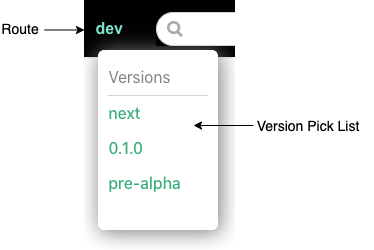
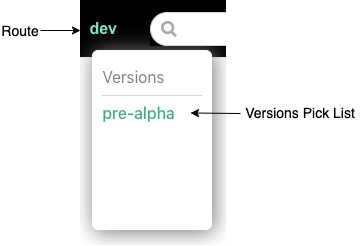
Issue 41, remove next from versions
https://github.com/api3dao/api3-docs/issues/41

diff --git a/docs/.vuepress/components/VersionsModal.vue b/docs/.vuepress/components/VersionsModal.vue
@@ -17,7 +17,7 @@ Parameters from parent
             <div class="modal-body">
                 <div style="border-bottom:1px solid lightgrey;">Versions</div>
                   <div v-for="(vrs, index) in versions" :key="index" v-on:click="onClickOutside(vrs.url, $event)">
-                    <router-link  :to="vrs.url" v-if="vrs.name!='next' || (vrs.name==='next' && env==='development')">
+                    <router-link  :to="vrs.url">
                       <span class="label">{{vrs.name}}</span>
                     </router-link>
                   </div>

diff --git a/docs/.vuepress/config.js b/docs/.vuepress/config.js
@@ -1,7 +1,9 @@
 module.exports = {
   env: process.env.NODE_ENV,
+  /**
+   * List all base routes that are to become versions here.
+   */
   versions:[
-    {name:'next', url:'/next/'},
     {name:'pre-alpha', url:'/pre-alpha/'},
   ],
   head: [

diff --git a/docs/dev/versioning.md b/docs/dev/versioning.md
@@ -7,11 +7,11 @@ title: Versioning
 <TocHeader />
 [[toc]]
 
-All versions of the docs are inside the api3-docs repo. Versioning of the docs is not implemented using traditional tags in a GitHub repo. This allows all versions to be available while using the docs. It also allows older versions to be updated independently of any other version including _"next"_.
+All versions of the docs are inside the api3-docs repo. Versioning of the docs is not implemented using traditional tags in a GitHub repo. This allows all versions to be available while using the docs. It also allows older versions to be updated independently of any other version.
 
-## Understand Versions
+## Base Routes
 
-Different versions of the documentation live in the project's api3-docs/docs folder.
+All sub-folders in _/docs_ are base routes.
 
 ```text
 docs/
@@ -21,41 +21,35 @@ docs/
  |- pre-alpha/
 ```
 
-### Declaring Versions
+## Versions
 
-A folder in **/docs** is declared as a version in the .vuepress/config.json file (versions key) along with its *url* (entry path). The versions are used to populate the versions pick-list in the navbar. 
+A base route becomes a version of the docs when declared as a version in _.vuepress/config.json_.
+
+- **name:** the name of the version to display in the pick-list
+- **url:** the entry path to the version, usually the root of the base route
 
 ```json
 versions:[
-  {name:'next', url:'/next/'},
   {name:'0.1.0', url:'/0.1.0/'},
   {name:'pre-alpha', url:'/pre-alpha/'},
 ],
 ```
-
-Note that the folder **/dev** is not declared as a version and as such is just another route on the documentation website. It will not appear in the versions pick-list.
-
   > ![picklist](./assets/img/version-picklist.png)
 
-### next
+### /next and /dev
 
-The **/next** folder is a _working/future_ version. It is never shown in the production website on gh-pages but is shown in development. The next release can be accessed in production by changing the browser URL to **.../api3-doc/next/**.
-
-### dev
-
-The **/dev** folder is just another route. It is never shown in the version pick list, production or development. The dev release can be accessed at **.../api3-doc/dev/**.
+The **/next** and **/dev** folders are base routes that are not listed in the versions array. They are never shown in the version pick list, production or development. Access them by manually entering their base route name into the browser's URL bar.
 
 ## Create a Version
 
-It is assumed that the **next** folder is the work in progress that will become the new version.
+It is assumed that the **/next** folder is the work in progress that will become the new version.
 
-1. Make a copy of the **next** folder and name it (e.g. 0.2.0).
+1. Make a copy of the **/next** folder and name it (e.g. 0.2.0).
 
 1. Update the **versions** key in .vuepress/config.json. Provide the version name and url. The url is the first markdown file to show when a version is selected in the navbar. A url without a file will load the root README.md by default.
 
     ```json
     versions:[
-      {name:'next', url:'/next/'},
       {name:'0.2.0', url:'/0.2.0/'},
       {name:'0.1.0', url:'/0.1.0/'},
       {name:'pre-alpha', url:'/pre-alpha/'},
@@ -63,8 +57,8 @@ It is assumed that the **next** folder is the work in progress that will become 
     ],
     ```
 
-1. The **next** version probably contained hyperlinks to remote GitHub repos. More than likely these link will need updating in the version just created.
+2. The **/next** version probably contained hyperlinks to remote GitHub repos. More than likely these links will need updating in the version just created.
 
 ## Update Older Versions
 
-Older versions can be updated at any time, even will work progresses on the **next** version. It should be noted that such updates will not be reflected in the next or any other version, if needed they must be added separately.
+Older versions and non-version base routes can be updated at any time, even while work progresses on the **/next** base route. It should be noted that such updates will not be reflected in any other base route, if needed they must be added separately.
